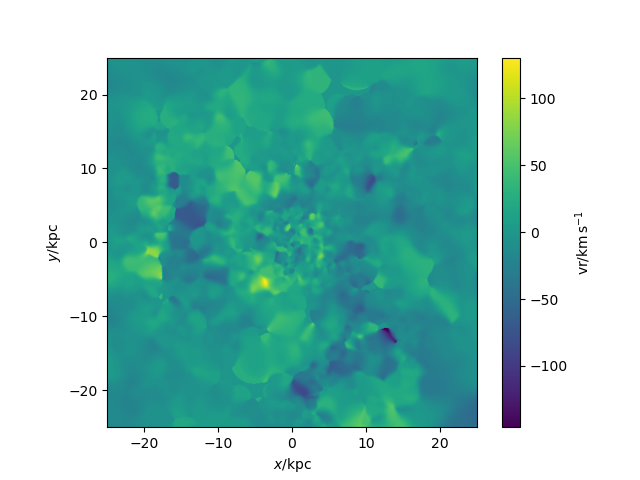
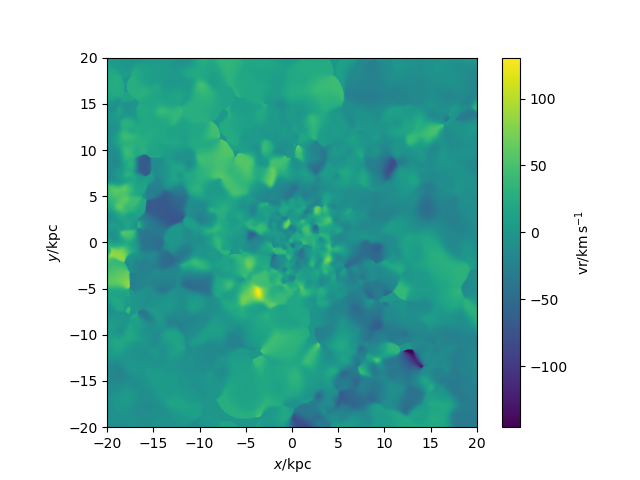
axis updated

diff --git a/r316/galaxy316_iongas.py b/r316/galaxy316_iongas.py
@@ -19,7 +19,7 @@ pynbody.analysis.angmom.faceon(s)
 GasFilter = pynbody.filt.HighPass('temp','15848 K')
 
 #creating image to show velocity of ionised gas
-sph.image(s.g[GasFilter],qty="vr",vmin=-20,width=50,denoise=True,approximate_fast=False,log=False)
+sph.image(s.g[GasFilter],qty="vr",vmin=-20,width=40,denoise=True,approximate_fast=False,log=False)
 
 #function to find BH
 def findBH(s):

diff --git a/r310/galaxy310_temp.py b/r310/galaxy310_temp.py
@@ -15,7 +15,7 @@ s.physical_units()
 pynbody.analysis.angmom.faceon(s)
 
 #creating slice to show gas temp
-sph.image(s.g,qty="temp",width=50,denoise=True,approximate_fast=False,log=True)
+sph.image(s.g,qty="temp",width=40,denoise=True,approximate_fast=False,log=True)
 
 #plt.show()
 plt.savefig("galaxy310_temp.png")

diff --git a/r310/galaxy310_velocity.py b/r310/galaxy310_velocity.py
@@ -15,7 +15,7 @@ s.physical_units()
 pynbody.analysis.angmom.faceon(s)
 
 #creating gas velocity plot
-sph.image(s.g,qty="vr",width=50,denoise=True,approximate_fast=False,log=False)
+sph.image(s.g,qty="vr",width=40,denoise=True,approximate_fast=False,log=False)
 
 #plt.show()
 plt.savefig("galaxy310_velocity.png")

diff --git a/r316/galaxy316_temp.py b/r316/galaxy316_temp.py
@@ -15,7 +15,7 @@ s.physical_units()
 pynbody.analysis.angmom.faceon(s)
 
 #creating slice to show gas temp
-sph.image(s.g,qty="temp",width=50,denoise=True,approximate_fast=False,log=True)
+sph.image(s.g,qty="temp",width=40,denoise=True,approximate_fast=False,log=True)
 
 #function to find BH
 def findBH(s):

diff --git a/r310/galaxy310_dens.py b/r310/galaxy310_dens.py
@@ -13,7 +13,7 @@ s.physical_units()
 pynbody.analysis.angmom.faceon(s)
 
 #creating gas density slice
-sph.image(s.g,qty="rho",units="g cm^-3",width=30)
+sph.image(s.g,qty="rho",units="g cm^-3",width=40)
 
-plt.show()
-#plt.savefig("galaxy310_dens.png")
+#plt.show()
+plt.savefig("galaxy310_dens.png")

diff --git a/r316/galaxy316_velocity.py b/r316/galaxy316_velocity.py
@@ -15,7 +15,7 @@ s.physical_units()
 pynbody.analysis.angmom.faceon(s)
 
 #creating gas velocity plot
-sph.image(s.g,qty="vr",width=50,denoise=True,approximate_fast=False,log=False)
+sph.image(s.g,qty="vr",width=40,denoise=True,approximate_fast=False,log=False)
 
 #function to find BH
 def findBH(s):

diff --git a/r316/galaxy316_stars.py b/r316/galaxy316_stars.py
@@ -13,7 +13,7 @@ s.physical_units()
 pynbody.analysis.angmom.faceon(s)
 
 #creating image using default bands(i,v,u)
-pynbody.plot.stars.render(s,width='20 kpc')
+pynbody.plot.stars.render(s,width='40 kpc')
 
 #plt.show()
 plt.savefig("galaxy316_stars.png")

diff --git a/r316/galaxy316_dens.py b/r316/galaxy316_dens.py
@@ -13,7 +13,7 @@ s.physical_units()
 pynbody.analysis.angmom.faceon(s)
 
 #creating gas density slice
-sph.image(s.g,qty="rho",units="g cm^-3",width=50)
+sph.image(s.g,qty="rho",units="g cm^-3",width=40)
 
 #function to find BH
 def findBH(s):
